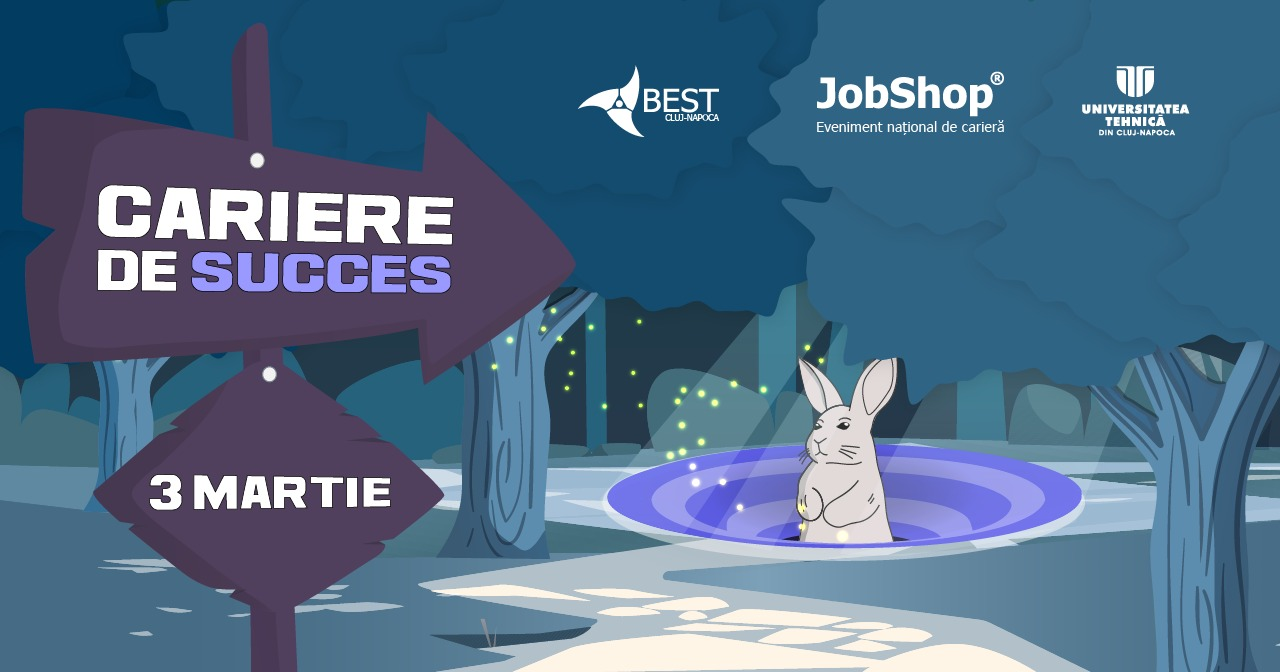
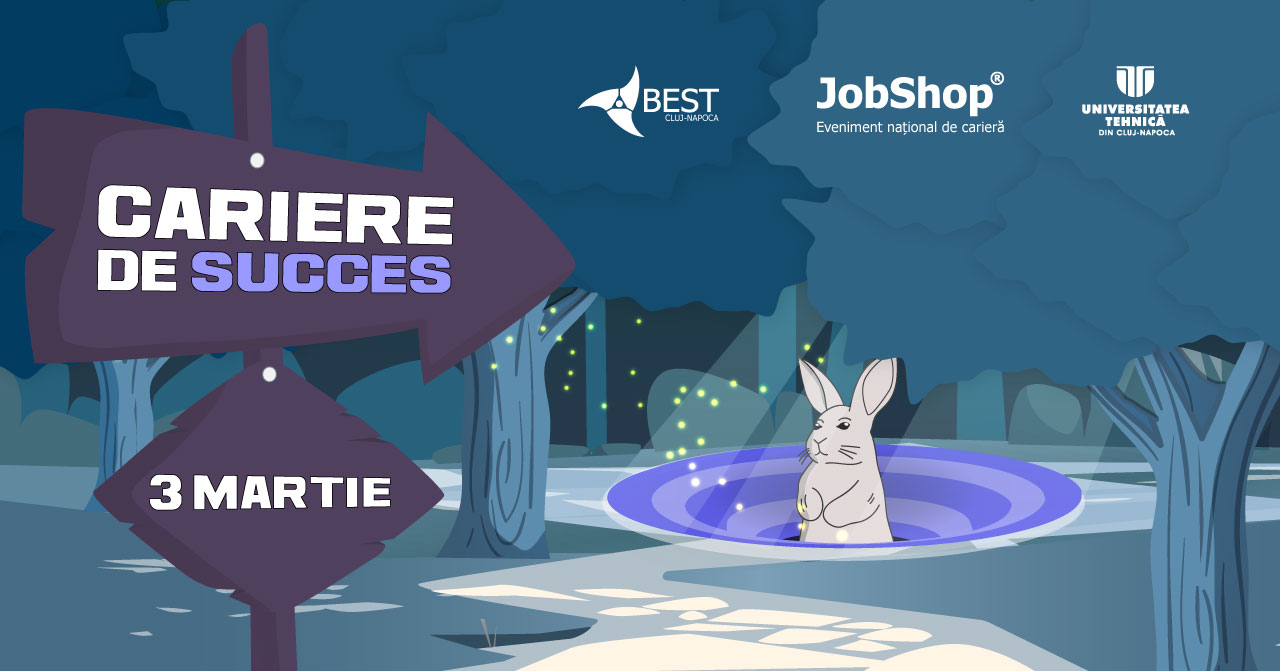
commit

diff --git a/hts.html b/hts.html
@@ -74,7 +74,7 @@
                 </div>
             </div> -->
         <div class="">
-            <img src="vscode/HTSbg.png" class="img-fluid" style="width: 100%;" alt="">
+            <img src="vscode/HTSbg.jpg" class="img-fluid" style="width: 100%;" alt="">
         </div>
     </div>
     <div class="container-fluid ">
